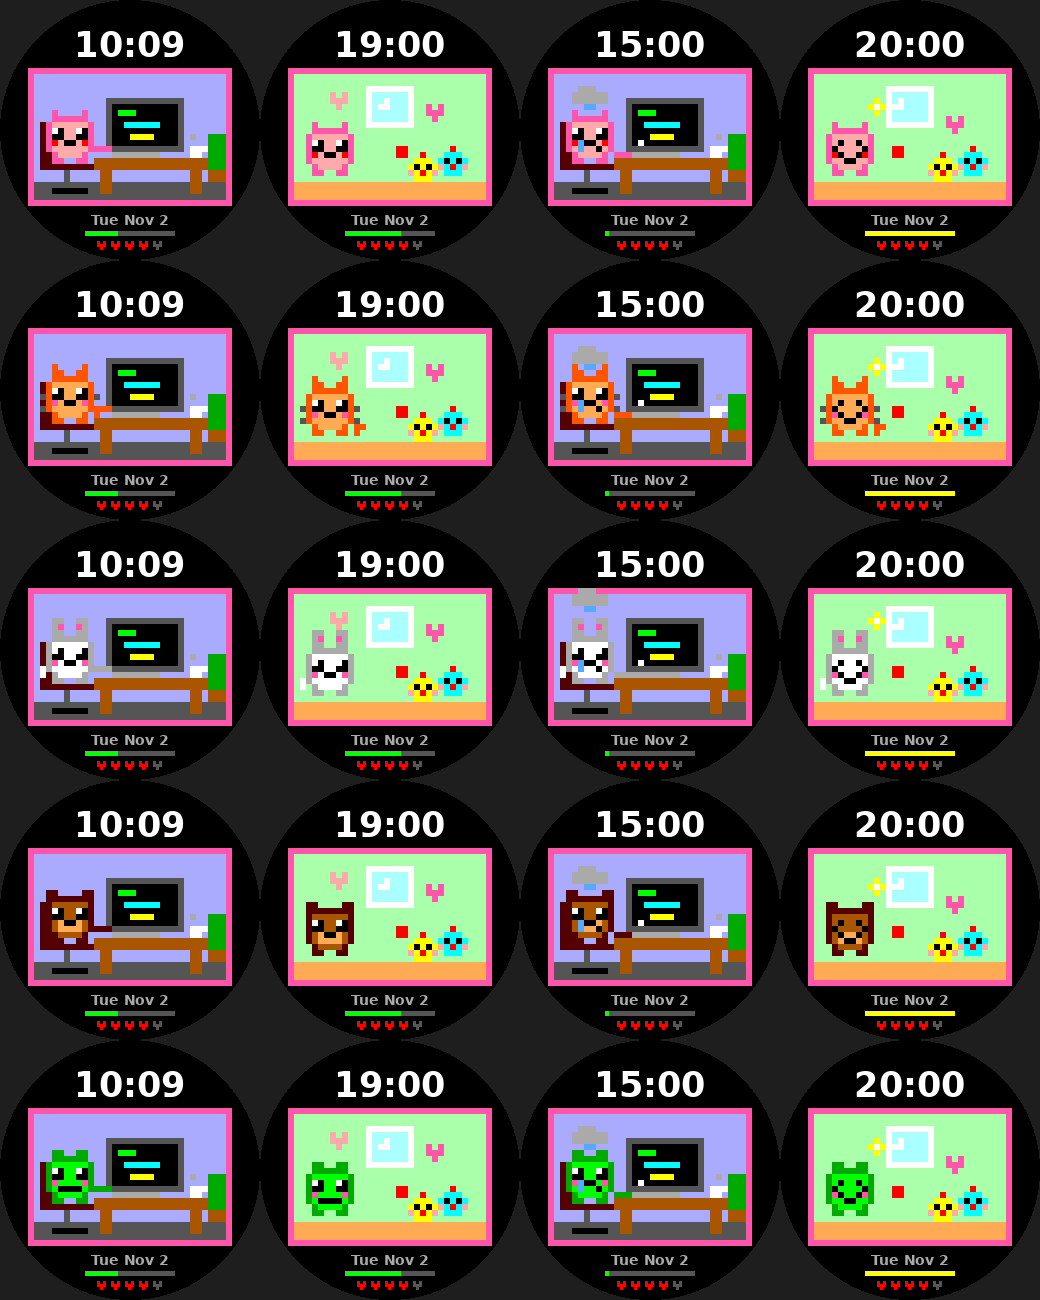
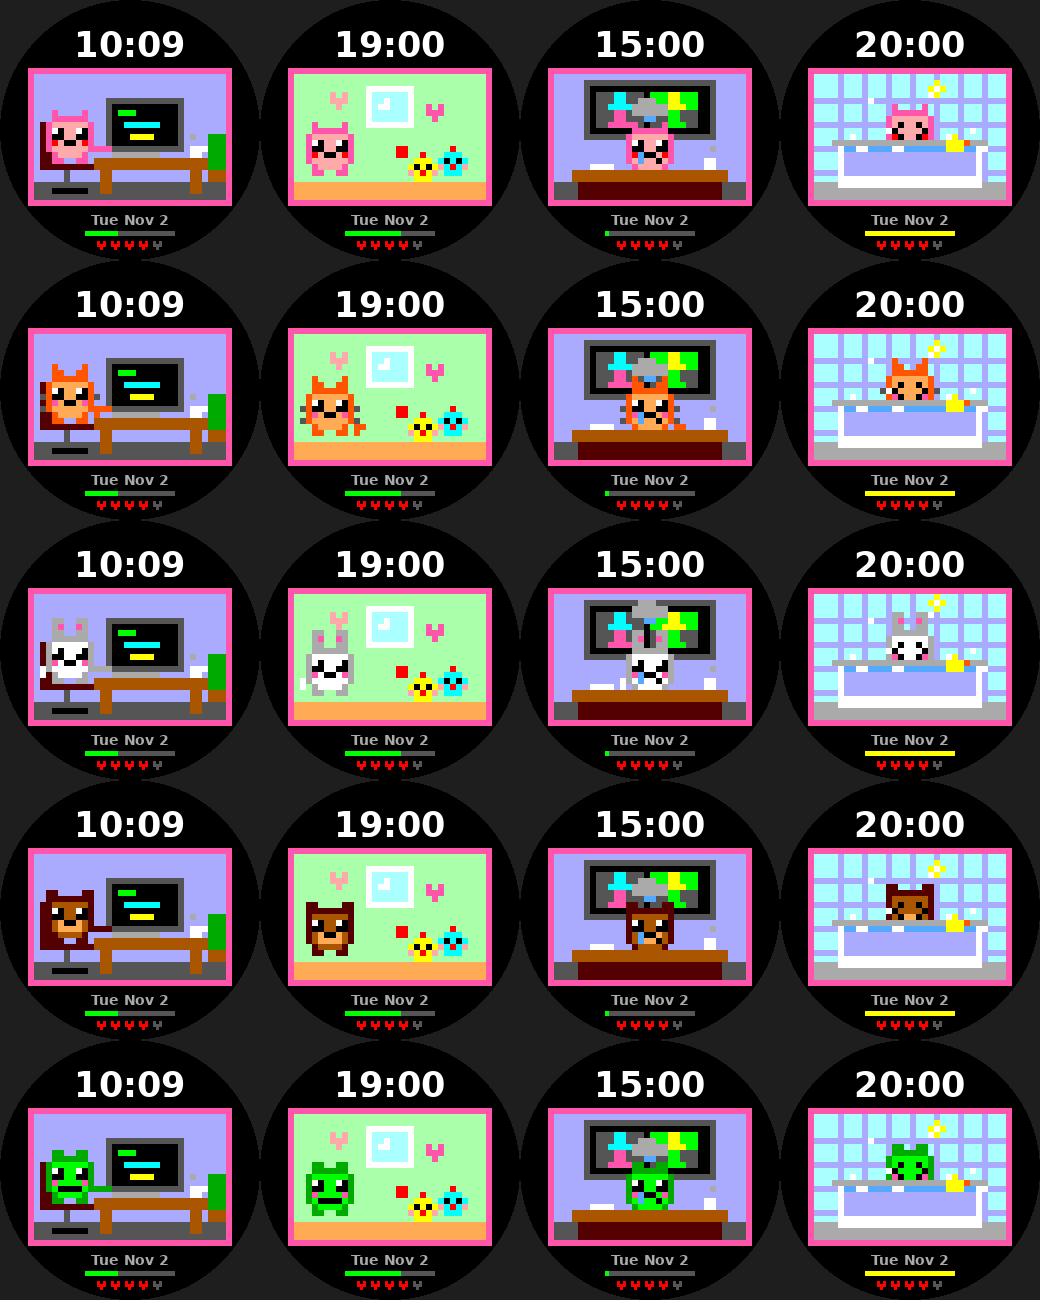
Add seven new activities: brushing, commute, meeting, gaming, bath, reading, park walk
Claude-Session: https://claude.ai/code/session_011ky8cAnUXaEurYwVogiPNe

diff --git a/desk-pet/src/c/main.c b/desk-pet/src/c/main.c
@@ -13,6 +13,13 @@ typedef enum {
   ACT_DINNER,
   ACT_PLAY,
   ACT_CHILL,
+  ACT_BRUSH,
+  ACT_COMMUTE,
+  ACT_MEETING,
+  ACT_GAME,
+  ACT_BATH,
+  ACT_READ,
+  ACT_WALK,
 } Activity;
 
 #define SCENE_W 32
@@ -335,6 +342,214 @@ static void scene_code(void) {
   box(GColorLightGray, 26 + (s_tick & 1), 10, 1, 1);
 }
 
+
+// Box clamped to the scene (for things that slide in from the edges).
+static void cbox(GColor c, int x, int y, int w, int h) {
+  if (x < 0) { w += x; x = 0; }
+  if (x + w > SCENE_W) w = SCENE_W - x;
+  if (w > 0 && h > 0) box(c, x, y, w, h);
+}
+
+static void scene_brush(void) {
+  room(GColorCeleste, GColorLightGray);
+  for (int i = 4; i < SCENE_W; i += 4) box(GColorBabyBlueEyes, i, 0, 1, FLOOR_Y);   // tiles
+  for (int j = 4; j < FLOOR_Y; j += 4) box(GColorBabyBlueEyes, 0, j, SCENE_W, 1);
+  // towel on a rail
+  box(GColorDarkGray, 29, 4, 2, 1);
+  box(GColorYellow, 29, 5, 2, 7);
+  // mirror
+  box(GColorDarkGray, 15, 1, 12, 9);
+  box(GColorWhite, 16, 2, 10, 7);
+  box(GColorCeleste, 17, 3, 2, 1);
+  px(17, 4, GColorCeleste);
+  // sink
+  box(GColorLightGray, 20, 15, 4, 3);
+  box(GColorWhite, 16, 12, 12, 3);
+  box(GColorDarkGray, 21, 10, 2, 2);
+  // pet brushing
+  pet(5, 10, (s_tick % 9) == 0, 1);
+  box(GColorWhite, 7, 14, 4, 2);                          // toothpaste foam
+  box(GColorCyan, 9 + (int)(s_tick & 1), 14, 4, 1);        // toothbrush
+  box(PET_OUT, 13, 14, 2, 1);                            // hand
+  // bubbles floating up
+  px(14, 9 - (int)(s_tick % 3), GColorWhite);
+  px(3, 8 + (int)((s_tick + 1) % 3), GColorWhite);
+}
+
+static void scene_commute(void) {
+  bool evening = s_hour >= 16;
+  box(evening ? GColorMelon : GColorCeleste, 0, 0, SCENE_W, 16);
+  box(evening ? GColorOrange : GColorYellow, 4, evening ? 10 : 2, 4, 3);
+  cloud(10, 3, 10);
+  // office building with blinking windows
+  box(GColorDarkGray, 22, 3, 8, 13);
+  for (int r = 0; r < 4; r++) {
+    for (int c = 0; c < 4; c++) {
+      bool lit = ((r * 3 + c + (int)(s_tick / 4)) % 3) == 0;
+      box(lit ? GColorYellow : GColorBabyBlueEyes, 23 + c * 2, 4 + r * 3, 1, 2);
+    }
+  }
+  // bus stop sign
+  box(GColorDarkGray, 3, 7, 1, 9);
+  box(GColorRed, 2, 5, 3, 3);
+  // pavement and road
+  box(GColorLightGray, 0, 16, SCENE_W, 2);
+  box(GColorDarkGray, 0, 18, SCENE_W, 3);
+  for (int i = 0; i < 5; i++) {
+    int x = i * 8 - (int)((s_tick * 2) % 8);
+    if (x >= 0) box(GColorYellow, x, 19, 4, 1);
+  }
+  // a little car drives past
+  int cx = (int)((s_tick * 2) % 40) - 7;
+  cbox(GColorRed, cx, 18, 7, 2);
+  cbox(GColorRed, cx + 1, 17, 4, 1);
+  cbox(GColorCeleste, cx + 2, 17, 2, 1);
+  cbox(GColorBlack, cx + 1, 20, 2, 1);
+  cbox(GColorBlack, cx + 4, 20, 2, 1);
+  // pet walking with a briefcase
+  int hop = (int)(s_tick & 1);
+  s_bob = 1;
+  pet(11, 9, (s_tick % 7) == 0, 0);
+  s_bob = 0;
+  px(19, 13 - hop, PET_OUT);
+  box(GColorWindsorTan, 19, 14 - hop, 3, 3);
+}
+
+static void scene_meeting(void) {
+  room(GColorBabyBlueEyes, GColorDarkGray);
+  // video-call screen on the wall
+  box(GColorDarkGray, 5, 1, 22, 10);
+  box(GColorBlack, 6, 2, 20, 8);
+  static const GColor avatar[4] = {GColorCyan, GColorYellow, GColorShockingPink, GColorGreen};
+  int speaker = (int)((s_tick / 3) % 4);
+  for (int i = 0; i < 4; i++) {
+    int tx = 7 + (i % 2) * 9, ty = 3 + (i / 2) * 3;
+    box(i == speaker ? GColorGreen : GColorDarkGray, tx, ty, 8, 3);
+    box(avatar[i], tx + 3, ty, 2, 2);
+    box(avatar[i], tx + 2, ty + 2, 4, 1);
+  }
+  // pet talking in the meeting
+  pet(12, 9, (s_tick % 7) == 0, (int)(((s_tick / 2) % 3) == 0));
+  // table in front
+  box(GColorWindsorTan, 3, 16, 26, 2);
+  box(GColorBulgarianRose, 4, 18, 24, 3);
+  box(GColorWhite, 6, 15, 4, 1);                          // papers
+  box(GColorWhite, 25, 14, 2, 2);                         // coffee
+  px(25 + (int)(s_tick & 1), 12, GColorLightGray);
+}
+
+static void scene_game(void) {
+  room(GColorOxfordBlue, GColorImperialPurple);
+  // TV running a tiny space-shooter
+  box(GColorDarkGray, 16, 3, 14, 11);
+  box(GColorBlack, 17, 4, 12, 9);
+  for (int r = 0; r < 2; r++) {
+    for (int c = 0; c < 4; c++) {
+      box(r ? GColorMagenta : GColorGreen, 18 + c * 3 + (int)((s_tick / 2) % 2), 5 + r * 2, 2, 1);
+    }
+  }
+  int shipx = 19 + (int)(s_tick % 5) * 2;
+  box(GColorCyan, shipx, 12, 3, 1);
+  px(shipx + 1, 11, GColorCyan);
+  px(shipx + 1, 11 - 1 - (int)(s_tick % 4), GColorYellow);   // laser
+  box(GColorDarkGray, 21, 14, 4, 1);
+  // bean bag and pet with controller
+  pet(3, 9, (s_tick % 9) == 0, 0);
+  box(GColorDarkGray, 11, 14 + (int)(s_tick & 1), 3, 2);   // controller
+  box(GColorBlueMoon, 1, 15, 13, 3);
+  box(GColorBlueMoon, 3, 14, 9, 1);
+}
+
+static void scene_bath(void) {
+  room(GColorCeleste, GColorLightGray);
+  for (int i = 4; i < SCENE_W; i += 4) box(GColorBabyBlueEyes, i, 0, 1, FLOOR_Y);
+  for (int j = 4; j < FLOOR_Y; j += 4) box(GColorBabyBlueEyes, 0, j, SCENE_W, 1);
+  // steam
+  px(8 + (int)(s_tick % 3), 4, GColorWhite);
+  px(20 - (int)(s_tick % 3), 3, GColorWhite);
+  // pet in the tub
+  pet(12, 6, (s_tick % 7) == 0, 0);
+  box(GColorLightGray, 3, 11, 26, 1);
+  box(GColorWhite, 4, 12, 24, 7);
+  box(GColorPictonBlue, 5, 12, 22, 1);
+  box(GColorBabyBlueEyes, 5, 13, 22, 4);
+  box(GColorLightGray, 6, 19, 3, 1);                      // tub feet
+  box(GColorLightGray, 23, 19, 3, 1);
+  // bubbles
+  for (int i = 0; i < 5; i++) {
+    int bx = 6 + i * 5 + (int)((s_tick / 2 + i) % 2);
+    int by = 11 - (int)((s_tick + i) % 3);
+    if (i == 2) continue;                                   // leave room for the pet
+    px(bx, by, GColorWhite);
+    box(GColorWhite, bx + 1, 12, 2, 1);
+  }
+  // rubber duck bobbing
+  int bobd = (int)(s_tick & 1);
+  box(GColorYellow, 22, 10 + bobd, 3, 2);
+  px(23, 9 + bobd, GColorYellow);
+  px(25, 10 + bobd, GColorOrange);
+  px(23, 9 + bobd, GColorYellow);
+}
+
+static void scene_read(void) {
+  room(GColorImperialPurple, GColorBulgarianRose);
+  // night window
+  box(GColorWhite, 4, 2, 9, 8);
+  box(GColorOxfordBlue, 5, 3, 7, 6);
+  px(9, 4, GColorPastelYellow);
+  px(7, 6, GColorWhite);
+  px(10, 7, GColorWhite);
+  box(GColorWhite, 8, 2, 1, 8);
+  // bedside lamp
+  box(GColorWindsorTan, 25, 13, 6, 5);
+  box(GColorYellow, 26, 8, 4, 3);
+  box(GColorDarkGray, 27, 11, 2, 2);
+  // bed: headboard, pet sitting up, blanket, book
+  box(GColorWindsorTan, 3, 7, 2, 12);
+  pet(7, 5, (s_tick % 3) == 0, 0);
+  box(GColorWhite, 5, 11, 6, 5);                          // pillow behind
+  box(GColorCobaltBlue, 5, 12, 20, 6);
+  box(GColorBlueMoon, 5, 12, 20, 1);
+  box(GColorWindsorTan, 5, 18, 20, 2);
+  box(GColorWhite, 14, 10, 3, 4);                         // open book
+  box(GColorWhite, 17, 10, 3, 4);
+  box(GColorDarkGray, 17, 10, 1, 4);
+  if ((s_tick / 4) & 1) px(17, 9, GColorWhite);              // page flip
+  px(15, 11, GColorLightGray);
+  px(18, 12, GColorLightGray);
+}
+
+static void scene_walk(void) {
+  box(GColorCeleste, 0, 0, SCENE_W, 14);
+  box(GColorGreen, 0, 14, SCENE_W, 7);
+  box(GColorRajah, 0, 18, SCENE_W, 3);
+  box(GColorYellow, 3, 2, 3, 3);
+  cloud(9, 4, 12);
+  // tree
+  box(GColorWindsorTan, 25, 9, 2, 6);
+  box(GColorIslamicGreen, 22, 3, 8, 7);
+  box(GColorIslamicGreen, 23, 2, 6, 1);
+  px(24, 5, GColorRed);
+  px(27, 7, GColorRed);
+  // flowers
+  static const GColor fl[6] = {GColorRed, GColorYellow, GColorShockingPink,
+                               GColorWhite, GColorRed, GColorYellow};
+  static const int fx[6] = {1, 9, 20, 28, 15, 5};
+  static const int fy[6] = {16, 15, 17, 16, 14, 14};
+  for (int i = 0; i < 6; i++) px(fx[i], fy[i], fl[i]);
+  // butterfly
+  int bx = 4 + (int)(s_tick % 14) * 2;
+  int by = 6 + (int)((s_tick / 2) % 2);
+  cbox(GColorMagenta, bx, by, 1, 1);
+  cbox(GColorShockingPink, bx - 1, by - 1, 1, 1);
+  cbox(GColorShockingPink, bx + 1, by - 1, 1, 1);
+  // pet out for a walk with a kid in tow
+  s_bob = 1;
+  pet(14, 10, (s_tick % 7) == 0, 0);
+  s_bob = 0;
+  kid(6, 13 + (int)((s_tick + 1) & 1), GColorCyan, true);
+}
+
 static void table_scene(bool family) {
   room(GColorPastelYellow, GColorRajah);
   int mouth = (s_tick & 1);
@@ -442,15 +657,26 @@ static void health_handler(HealthEventType event, void *context) {
 
 // ------------------------------------------------------------- activities
 
-static Activity pick_activity(int hour, int wday) {
+static Activity pick_activity(int hour, int min, int wday) {
   bool weekend = (wday == 0 || wday == 6);
   if (hour < 7 || hour >= 22) return ACT_SLEEP;
-  if (hour < 9) return ACT_WAKE;
+  if (hour == 7) return (min < 30) ? ACT_WAKE : ACT_BRUSH;
+  if (hour == 20) return ACT_BATH;
+  if (hour == 21) return ACT_READ;
+  if (weekend) {
+    if (hour == 8 || hour == 12) return ACT_LUNCH;     // breakfast / lunch
+    if (hour <= 11) return ACT_WALK;
+    if (hour <= 14) return ACT_CHILL;
+    if (hour <= 16) return ACT_GAME;
+    if (hour == 18) return ACT_DINNER;
+    return ACT_PLAY;
+  }
+  if (hour == 8) return ACT_COMMUTE;
   if (hour == 12) return ACT_LUNCH;
-  if (hour == 17) return ACT_DINNER;
-  if (hour >= 18) return ACT_PLAY;
-  // 9-11, 13-16
-  if (weekend) return (hour >= 13) ? ACT_CHILL : ACT_PLAY;
+  if (hour == 17) return ACT_COMMUTE;
+  if (hour == 18) return ACT_DINNER;
+  if (hour >= 19) return ACT_PLAY;
+  if ((hour == 11 || hour == 15) && min < 30) return ACT_MEETING;
   return ACT_CODE;
 }
 
@@ -488,7 +714,8 @@ static void canvas_update(Layer *layer, GContext *ctx) {
   graphics_fill_rect(ctx, GRect(OX - U, OY - U, (SCENE_W + 2) * U, (SCENE_H + 2) * U),
                      3 * U, GCornersAll);
 
-  switch (pick_activity(s_hour, s_wday)) {
+  s_bob = 0;
+  switch (pick_activity(s_hour, s_min, s_wday)) {
     case ACT_SLEEP:  scene_sleep();       break;
     case ACT_WAKE:   scene_wake();        break;
     case ACT_CODE:   scene_code();        break;
@@ -496,6 +723,13 @@ static void canvas_update(Layer *layer, GContext *ctx) {
     case ACT_DINNER: table_scene(true);   break;
     case ACT_PLAY:   scene_play();        break;
     case ACT_CHILL:  scene_chill();       break;
+    case ACT_BRUSH:  scene_brush();       break;
+    case ACT_COMMUTE: scene_commute();    break;
+    case ACT_MEETING: scene_meeting();    break;
+    case ACT_GAME:   scene_game();        break;
+    case ACT_BATH:   scene_bath();        break;
+    case ACT_READ:   scene_read();        break;
+    case ACT_WALK:   scene_walk();        break;
   }
 
   // date

diff --git a/desk-pet/tools/preview/render.py b/desk-pet/tools/preview/render.py
@@ -46,15 +46,19 @@ def frame(name, hour, wday, minute=9, steps=3000, batt=80, tick=0, species=0):
 
 # (name, hour, weekday[0=Sun], minute, steps, batt, tick)
 SCENES = [
-    ("sleep", 23, 2, 30, 3000, 80, 3), ("wake", 7, 2, 40, 100, 80, 0),
-    ("code", 10, 2, 9, 3000, 80, 2), ("lunch", 12, 2, 15, 3500, 60, 1),
-    ("dinner", 17, 2, 30, 6000, 40, 1), ("play", 19, 2, 0, 8200, 20, 5),
-    ("chill", 14, 0, 0, 3000, 80, 4), ("code_sad", 15, 2, 0, 400, 80, 2), ("happy", 20, 2, 0, 8500, 100, 1),
+    ("sleep", 23, 2, 30, 3000, 80, 3), ("wake", 7, 2, 10, 100, 80, 0),
+    ("brush", 7, 2, 40, 100, 80, 1), ("commute", 8, 2, 10, 500, 80, 3),
+    ("code", 10, 2, 9, 3000, 80, 2), ("meeting", 11, 2, 10, 3500, 80, 4),
+    ("lunch", 12, 2, 15, 3500, 60, 1), ("dinner", 18, 2, 30, 6000, 40, 1),
+    ("play", 19, 2, 0, 5000, 80, 5), ("bath", 20, 2, 30, 6500, 70, 1),
+    ("read", 21, 2, 30, 6500, 70, 4), ("walk", 10, 6, 0, 2000, 90, 5),
+    ("game", 15, 0, 30, 3000, 80, 3), ("chill", 13, 0, 0, 3000, 80, 4),
+    ("code_sad", 14, 2, 0, 400, 80, 2), ("happy", 19, 2, 0, 8500, 100, 1),
 ]
 ims = [frame(*s) for s in SCENES]
-sheet = Image.new("RGB", (260 * 3, 260 * 3))
+sheet = Image.new("RGB", (260 * 4, 260 * 4))
 for i, im in enumerate(ims):
-    sheet.paste(im, ((i % 3) * 260, (i // 3) * 260))
+    sheet.paste(im, ((i % 4) * 260, (i // 4) * 260))
 sheet.save(os.path.join(out, "sheet.png"))
 # One row per species: code, play, sad-at-desk, happy.
 NAMES = ["blob", "cat", "bunny", "bear", "frog"]

diff --git a/README.md b/README.md
@@ -6,14 +6,18 @@ Watchfaces for the Pebble Round 2 (`gabbro` platform, 260x260 round color).
 
 A Tamagotchi-style pet whose activity follows the time of day.
 
-| When | Activity |
-|---|---|
-| 22:00-07:00 | Sleeping (moon, stars, floating z's) |
-| 07:00-09:00 | Waking up and stretching |
-| Weekdays 09:00-17:00 | Coding at a desk (12:00 lunch) |
-| 17:00-18:00 | Family dinner |
-| 18:00-22:00 | Playing ball with the kids |
-| Weekends | Play in the morning, couch + TV 13:00-17:00 |
+| Time | Weekdays | Weekends |
+|---|---|---|
+| 22:00-07:00 | Sleeping (moon, stars, floating z's) | same |
+| 07:00-07:30 | Waking up and stretching | same |
+| 07:30-08:00 | Brushing teeth | same |
+| 08:00 | Walking to work (office, car, bus stop) | Breakfast |
+| 09:00-17:00 | Coding at a desk, video-call meetings at :00-:30 of 11 and 15, lunch at 12 | Park walk with a kid (9-12), lunch, TV (13-15), gaming (15-17) |
+| 17:00 | Walking home (sunset sky) | Playing with the kids |
+| 18:00 | Family dinner | Family dinner |
+| 19:00 | Playing ball with the kids | Playing with the kids |
+| 20:00 | Bath with a rubber duck | same |
+| 21:00 | Reading in bed | same |
 
 Battery is shown as 5 hearts. A green step bar fills toward 8,000 steps (gold when reached); the pet frowns and cries if you fall well behind pace after 11:00, and smiles once the goal is hit. All art is drawn with rectangles (no image assets).
 
